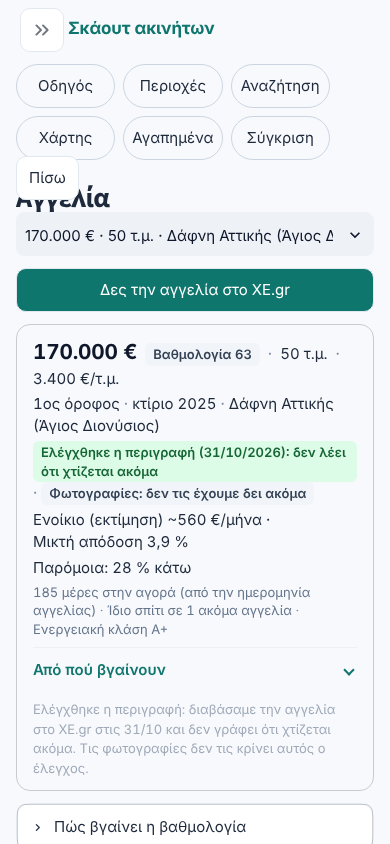
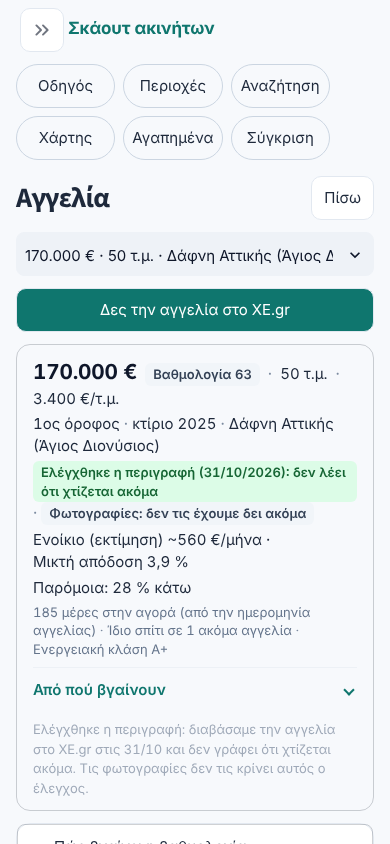
C18: the listing page title and «Πίσω» share one line (measured at 390 px)
Claude-Session: https://claude.ai/code/session_01RR7mnYsoia4NBjMNKnw8uD

Changed region(s): [[0.0308, 0.2773, 0.9538, 1.0], [0.0308, 0.1848, 0.2154, 0.2464], [0.8308, 0.2156, 0.9231, 0.2464]]

diff --git a/src/scout/ui/theme.py b/src/scout/ui/theme.py
@@ -1043,11 +1043,7 @@ footer {{ visibility: hidden; height: 0; }}
 /* The listing page: its title and «Πίσω» share one line (the button is pulled up beside the
  * title that precedes it; the rule applies only in that order). */
 [data-testid="stMain"] [data-testid="stElementContainer"]:has(h2) + .st-key-listing-back {{
-    margin-top: -60px; display: flex; justify-content: flex-end;
-}}
-[data-testid="stMain"] [data-testid="stElementContainer"]:has(h2) + .st-key-listing-back
-    .stButton {{
-    width: auto;
+    margin-top: -40px; align-self: flex-end;
 }}
 /* The sidebar opener: a hairline control, not a floating card. */
 header[data-testid="stHeader"] [data-testid="stExpandSidebarButton"] {{
